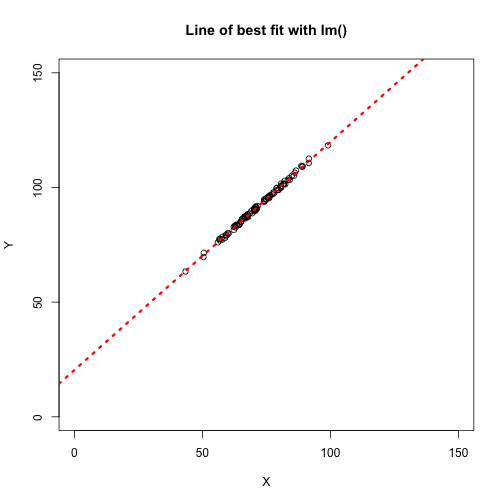
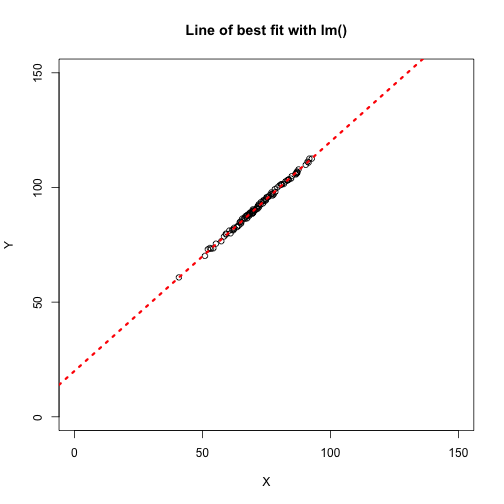
more links

diff --git a/r_course/introToR_Session2.md b/r_course/introToR_Session2.md
@@ -789,9 +789,9 @@ Exercise on loops and conditional branching can be found [here](http://mrccsc.gi
 Answers to exercise.
 ========================================================
 
-Answers can be found here  [here](answers/conditionsAndLoops_Answers.html)
+Answers can be found here  [here](http://mrccsc.github.io/Reproducible-R/r_course/answers/conditionsAndLoops_Answers.html)
 
-Rcode for answers can be found here  [here](answers/conditionsAndLoops_Answers.R)
+Rcode for answers can be found here  [here](http://mrccsc.github.io/Reproducible-R/r_course/answers/conditionsAndLoops_Answers.R)
 
 Functions
 =====================
@@ -813,7 +813,7 @@ mean(x)
 ```
 
 ```
-[1] 71.68103
+[1] 72.09421
 ```
 
 ```r
@@ -982,7 +982,7 @@ $Calculation
 [1] 100
 
 $DateRun
-[1] "Sun Mar  6 19:49:49 2016"
+[1] "Sun Mar  6 19:52:17 2016"
 ```
 
 Functions (8/) -Scope
